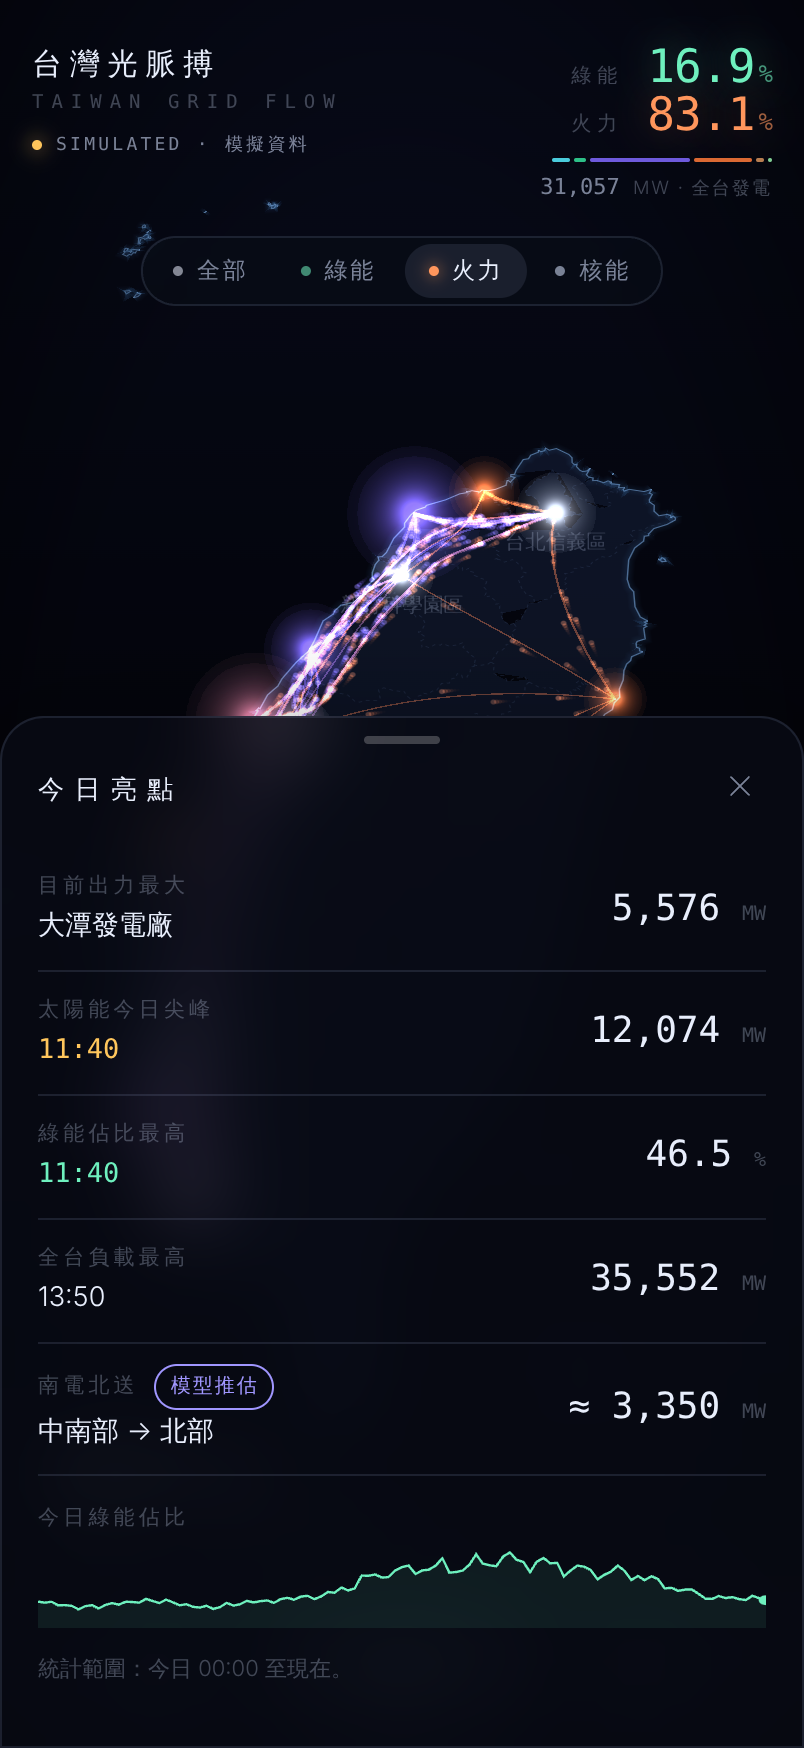
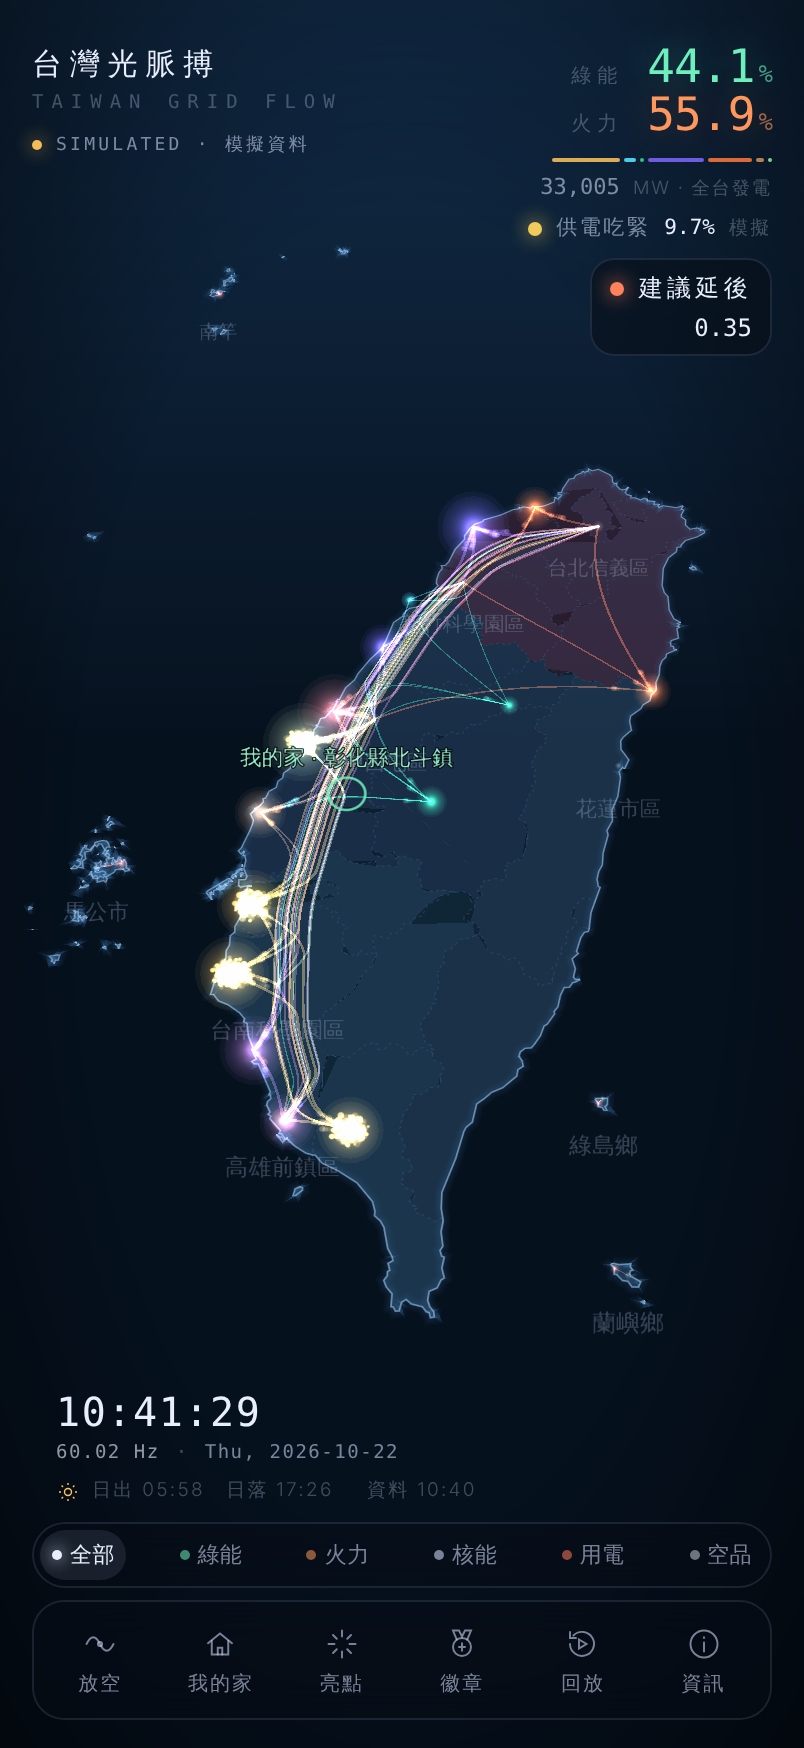
更新 週四-2026-10 10:49

diff --git a/src/styles.css b/src/styles.css
@@ -434,12 +434,13 @@ a:hover { text-decoration: underline; }
   .mix { min-width: 110px; }
   .mix-value { font-size: 23px; }
   .mix-bar { width: 110px; margin: 9px 0 6px auto; }
-  .filters { top: calc(196px + var(--safe-t)); }
+  /* 篩選列移到下方工具列上面，不擋電力流動 */
+  .filters { top: auto; bottom: calc(80px + var(--safe-b)); }
   .filters button { padding: 6px 12px; font-size: 11.5px; letter-spacing: 0.12em; }
-  .cruise-caption { top: calc(246px + var(--safe-t)); }
+  .cruise-caption { top: calc(186px + var(--safe-t)); }
 
   .clock {
-    bottom: calc(86px + var(--safe-b)); padding: 8px 12px; border-left: 0;
+    bottom: calc(118px + var(--safe-b)); padding: 4px 12px; border-left: 0;
     background: none; backdrop-filter: none; -webkit-backdrop-filter: none;
   }
   .clock-time { font-size: 20px; }
@@ -450,20 +451,21 @@ a:hover { text-decoration: underline; }
   .toolbar { left: var(--gutter); right: var(--gutter); transform: none; justify-content: space-around; bottom: calc(14px + var(--safe-b)); }
   .toolbar button { flex: 1; padding: 8px 2px 6px; min-width: 0; letter-spacing: 0.1em; }
   .filters { left: var(--gutter); right: var(--gutter); transform: none; justify-content: space-between; }
-  .filters button { padding: 6px 6px; letter-spacing: 0.02em; gap: 4px; font-size: 11px; flex: 0 0 auto; }
+  .filters button { padding: 5px 6px; letter-spacing: 0.02em; gap: 4px; font-size: 11px; flex: 0 0 auto; }
+  .clock-time { line-height: 1.1; }
   .filters { overflow-x: auto; scrollbar-width: none; }
   .filters::-webkit-scrollbar { display: none; }
-  .replay { bottom: calc(86px + var(--safe-b)); flex-wrap: wrap; gap: 6px 10px; }
+  .replay { bottom: calc(122px + var(--safe-b)); flex-wrap: wrap; gap: 6px 10px; }
   .replay input[type=range] { order: 5; flex-basis: 100%; }
   .badges { grid-template-columns: repeat(3, 1fr); }
-  .badge-toast { width: calc(100% - 32px); border-radius: 18px; bottom: calc(150px + var(--safe-b)); }
-  .alert-banner { top: calc(242px + var(--safe-t)); width: calc(100% - 32px); }
+  .badge-toast { width: calc(100% - 32px); border-radius: 18px; bottom: calc(190px + var(--safe-b)); }
+  .alert-banner { top: calc(186px + var(--safe-t)); width: calc(100% - 32px); }
   .hud:has(.replay) .clock { display: none; }
   .supply { margin-top: 6px; }
   .home-card { padding: 6px 9px; margin-top: 8px; }
   /* 抽屜打開時收起上方的篩選列與小卡，讓出看地圖的空間 */
   .hud:has(.panel) .filters, .hud:has(.panel) .home-card, .hud:has(.panel) .cruise-caption, .hud:has(.panel) .alert-banner { opacity: 0; pointer-events: none; }
-  .pick-banner { top: calc(250px + var(--safe-t)); width: max-content; max-width: calc(100% - 32px); }
+  .pick-banner { top: calc(186px + var(--safe-t)); width: max-content; max-width: calc(100% - 32px); }
   .loc-search, .loc-select { font-size: 16px; }
   .hc-row small:last-child { display: none; }
   .forecast b { font-size: 9.5px; }

diff --git a/src/engine/cruise.js b/src/engine/cruise.js
@@ -77,7 +77,9 @@ export class Cruise {
   camera(shot) {
     const { clientWidth: w, clientHeight: h } = this.map.getContainer();
     if (shot.bounds) {
-      const c = this.map.cameraForBounds(shot.bounds, { padding: Math.min(w, h) * 0.06 });
+      // 手機：上下留給 HUD，整座島不被擋住
+      const pad = w < 700 ? { top: 180, bottom: 200, left: 16, right: 16 } : Math.min(w, h) * 0.06;
+      const c = this.map.cameraForBounds(shot.bounds, { padding: pad });
       return { center: c.center, zoom: c.zoom, pitch: shot.pitch, bearing: shot.bearing };
     }
     // 依螢幕短邊微調縮放：手機直立螢幕不會擠、4K 桌面不會太遠

diff --git a/public/sw.js b/public/sw.js
@@ -1,6 +1,6 @@
 // 離線快取：頁面與程式用「先上網、失敗再用快取」，所以一鍵更新後重開就是新版。
 // 電力資料（data/、taipower/）永遠走網路，不快取，避免看到舊數字。
-const CACHE = 'tgf-v0.4.2';
+const CACHE = 'tgf-v0.4.3';
 const SHELL = ['./', './index.html', './manifest.webmanifest', './icon-192.png', './icon-512.png', './apple-touch-icon.png'];
 self.addEventListener('install', (e) => {
   e.waitUntil(caches.open(CACHE).then((c) => c.addAll(SHELL)).then(() => self.skipWaiting()));

diff --git a/src/engine/GridFlowEngine.js b/src/engine/GridFlowEngine.js
@@ -767,7 +767,7 @@ const MAX_BOUNDS = [[117.5, 20.2], [124.5, 27.0]];
 
 function fitPadding() {
   const w = window.innerWidth;
-  return w < 700 ? { top: 195, bottom: 150, left: 20, right: 20 } : { top: 20, bottom: 20, left: 40, right: 40 };
+  return w < 700 ? { top: 180, bottom: 200, left: 16, right: 16 } : { top: 20, bottom: 20, left: 40, right: 40 };
 }
 
 function mixRgb(a, b, t) {

diff --git a/src/config/app.js b/src/config/app.js
@@ -1,7 +1,7 @@
 export const APP = {
   name: '台灣光脈搏',
   en: 'Taiwan Grid Flow',
-  version: '0.4.2',
+  version: '0.4.3',
   designer: '無聊的人',
   // GitHub Pages 網址（一鍵更新.bat 推送後由 GitHub Actions 自動部署）
   pagesUrl: 'https://willy110611-collab.github.io/taiwan-grid-flow/',
